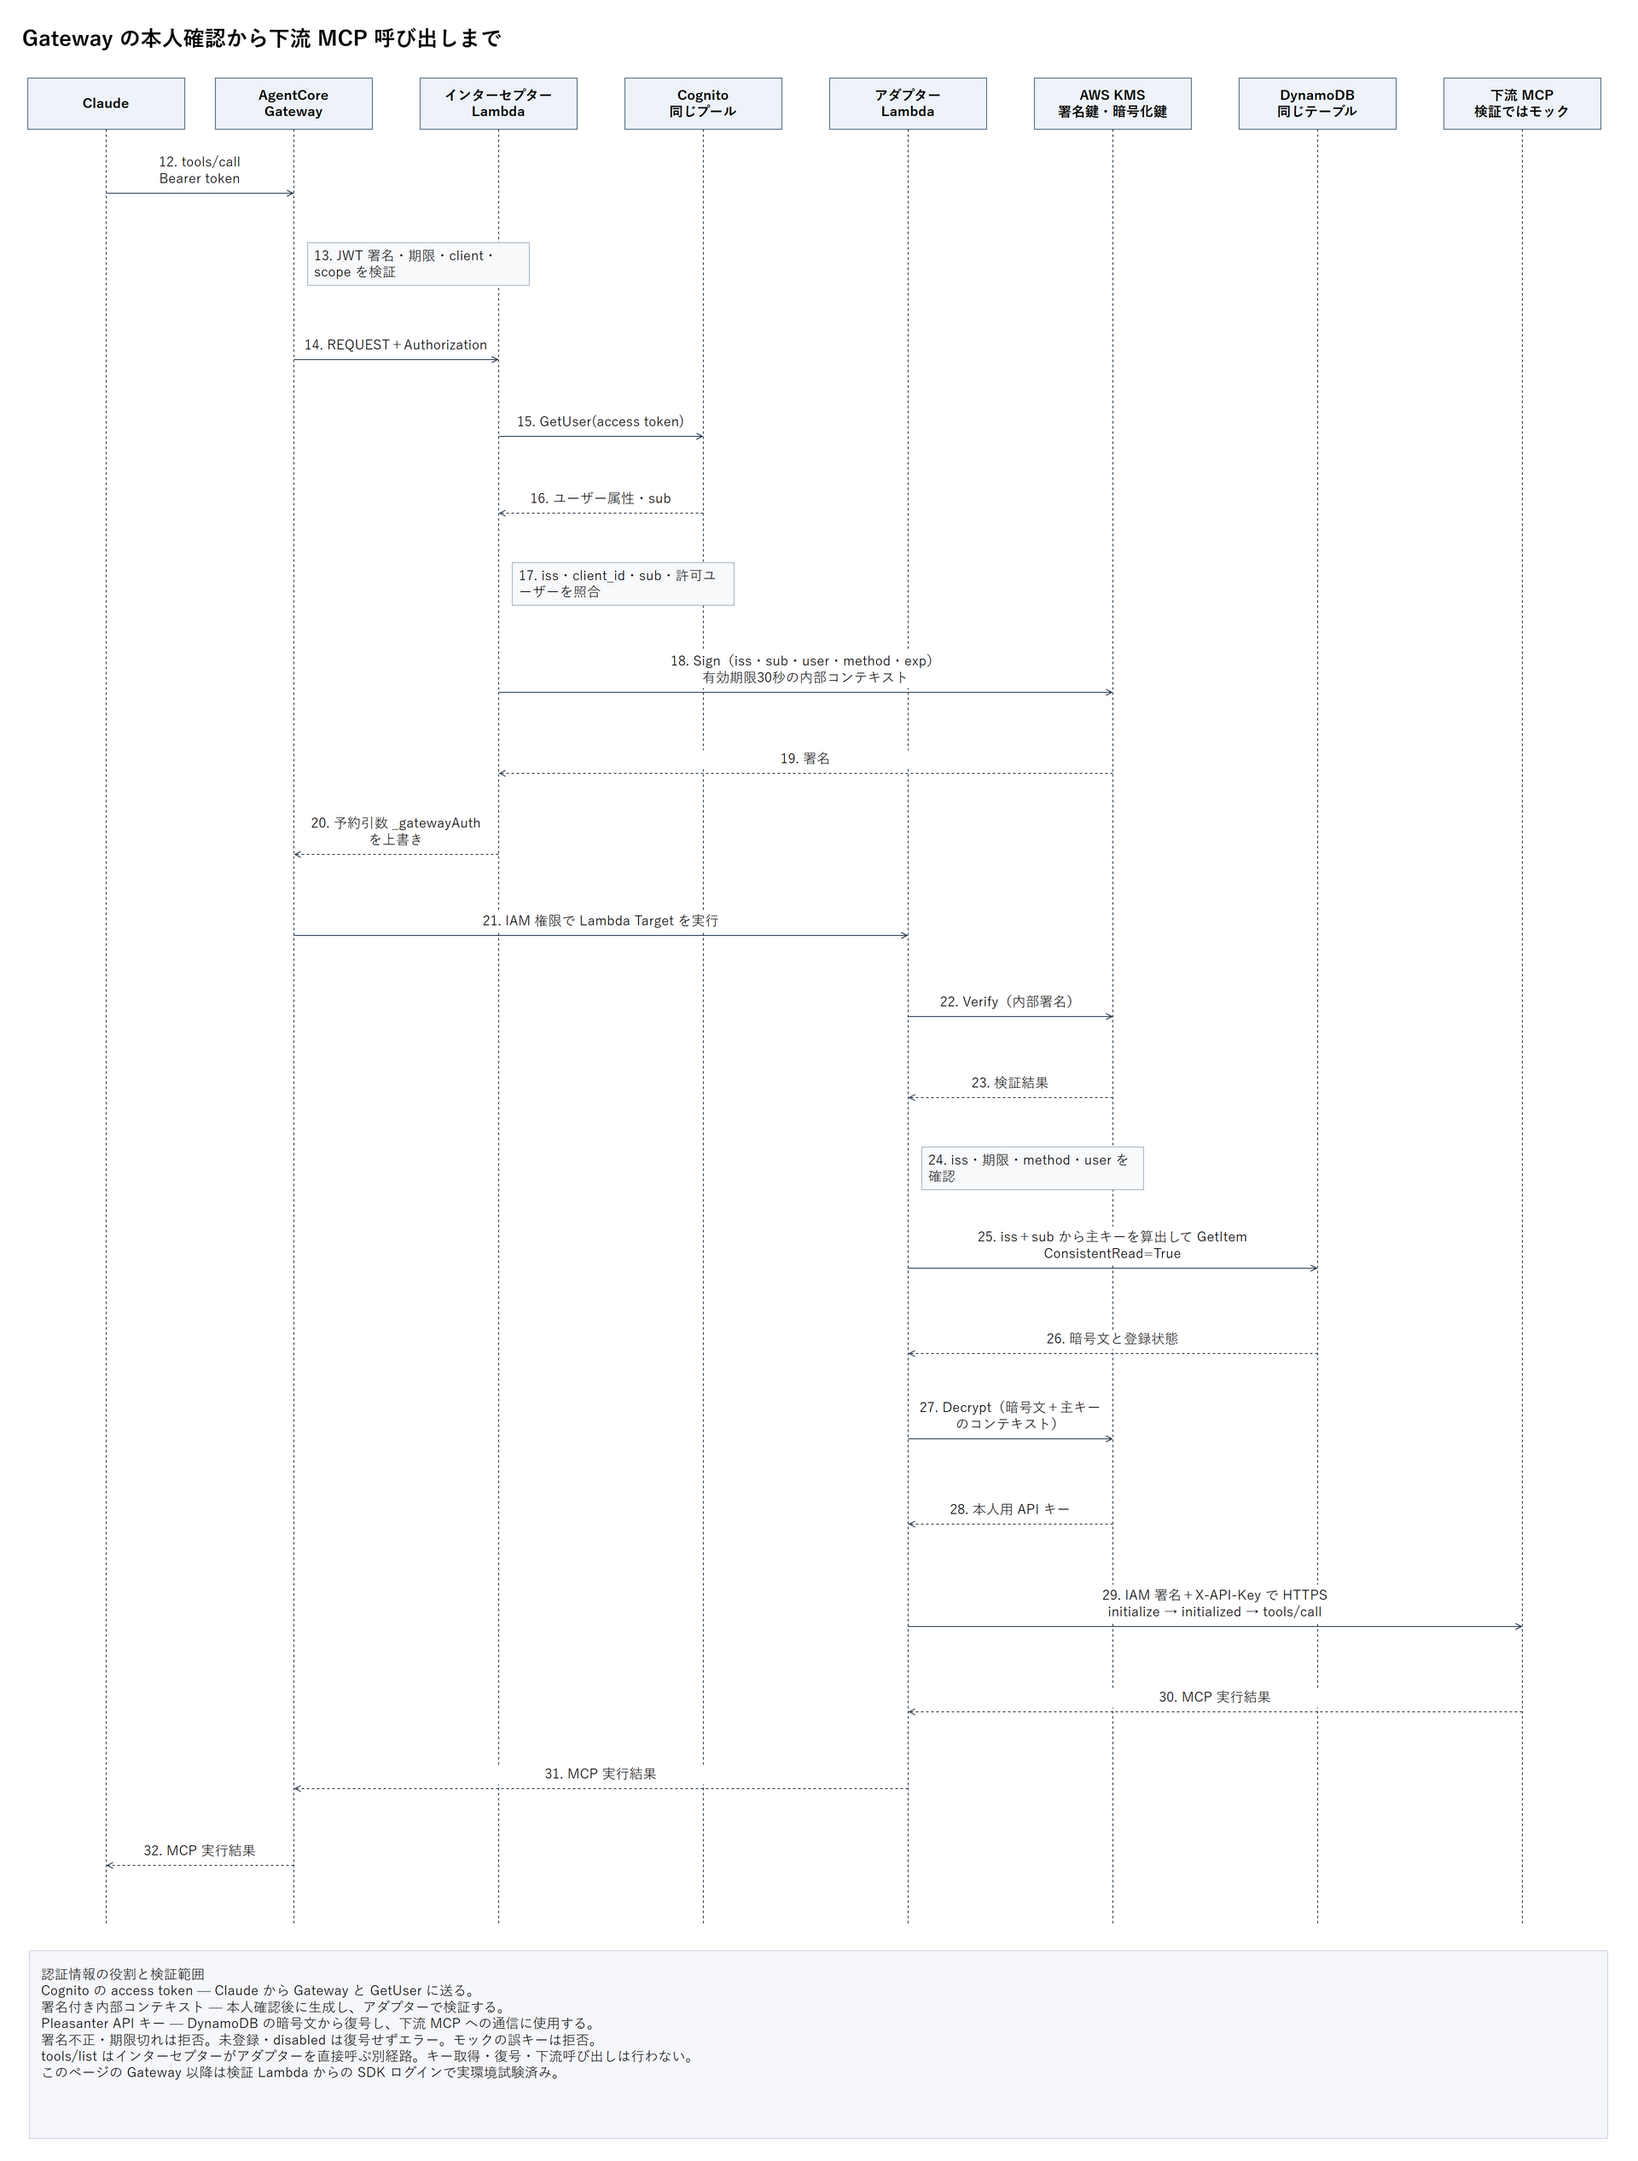
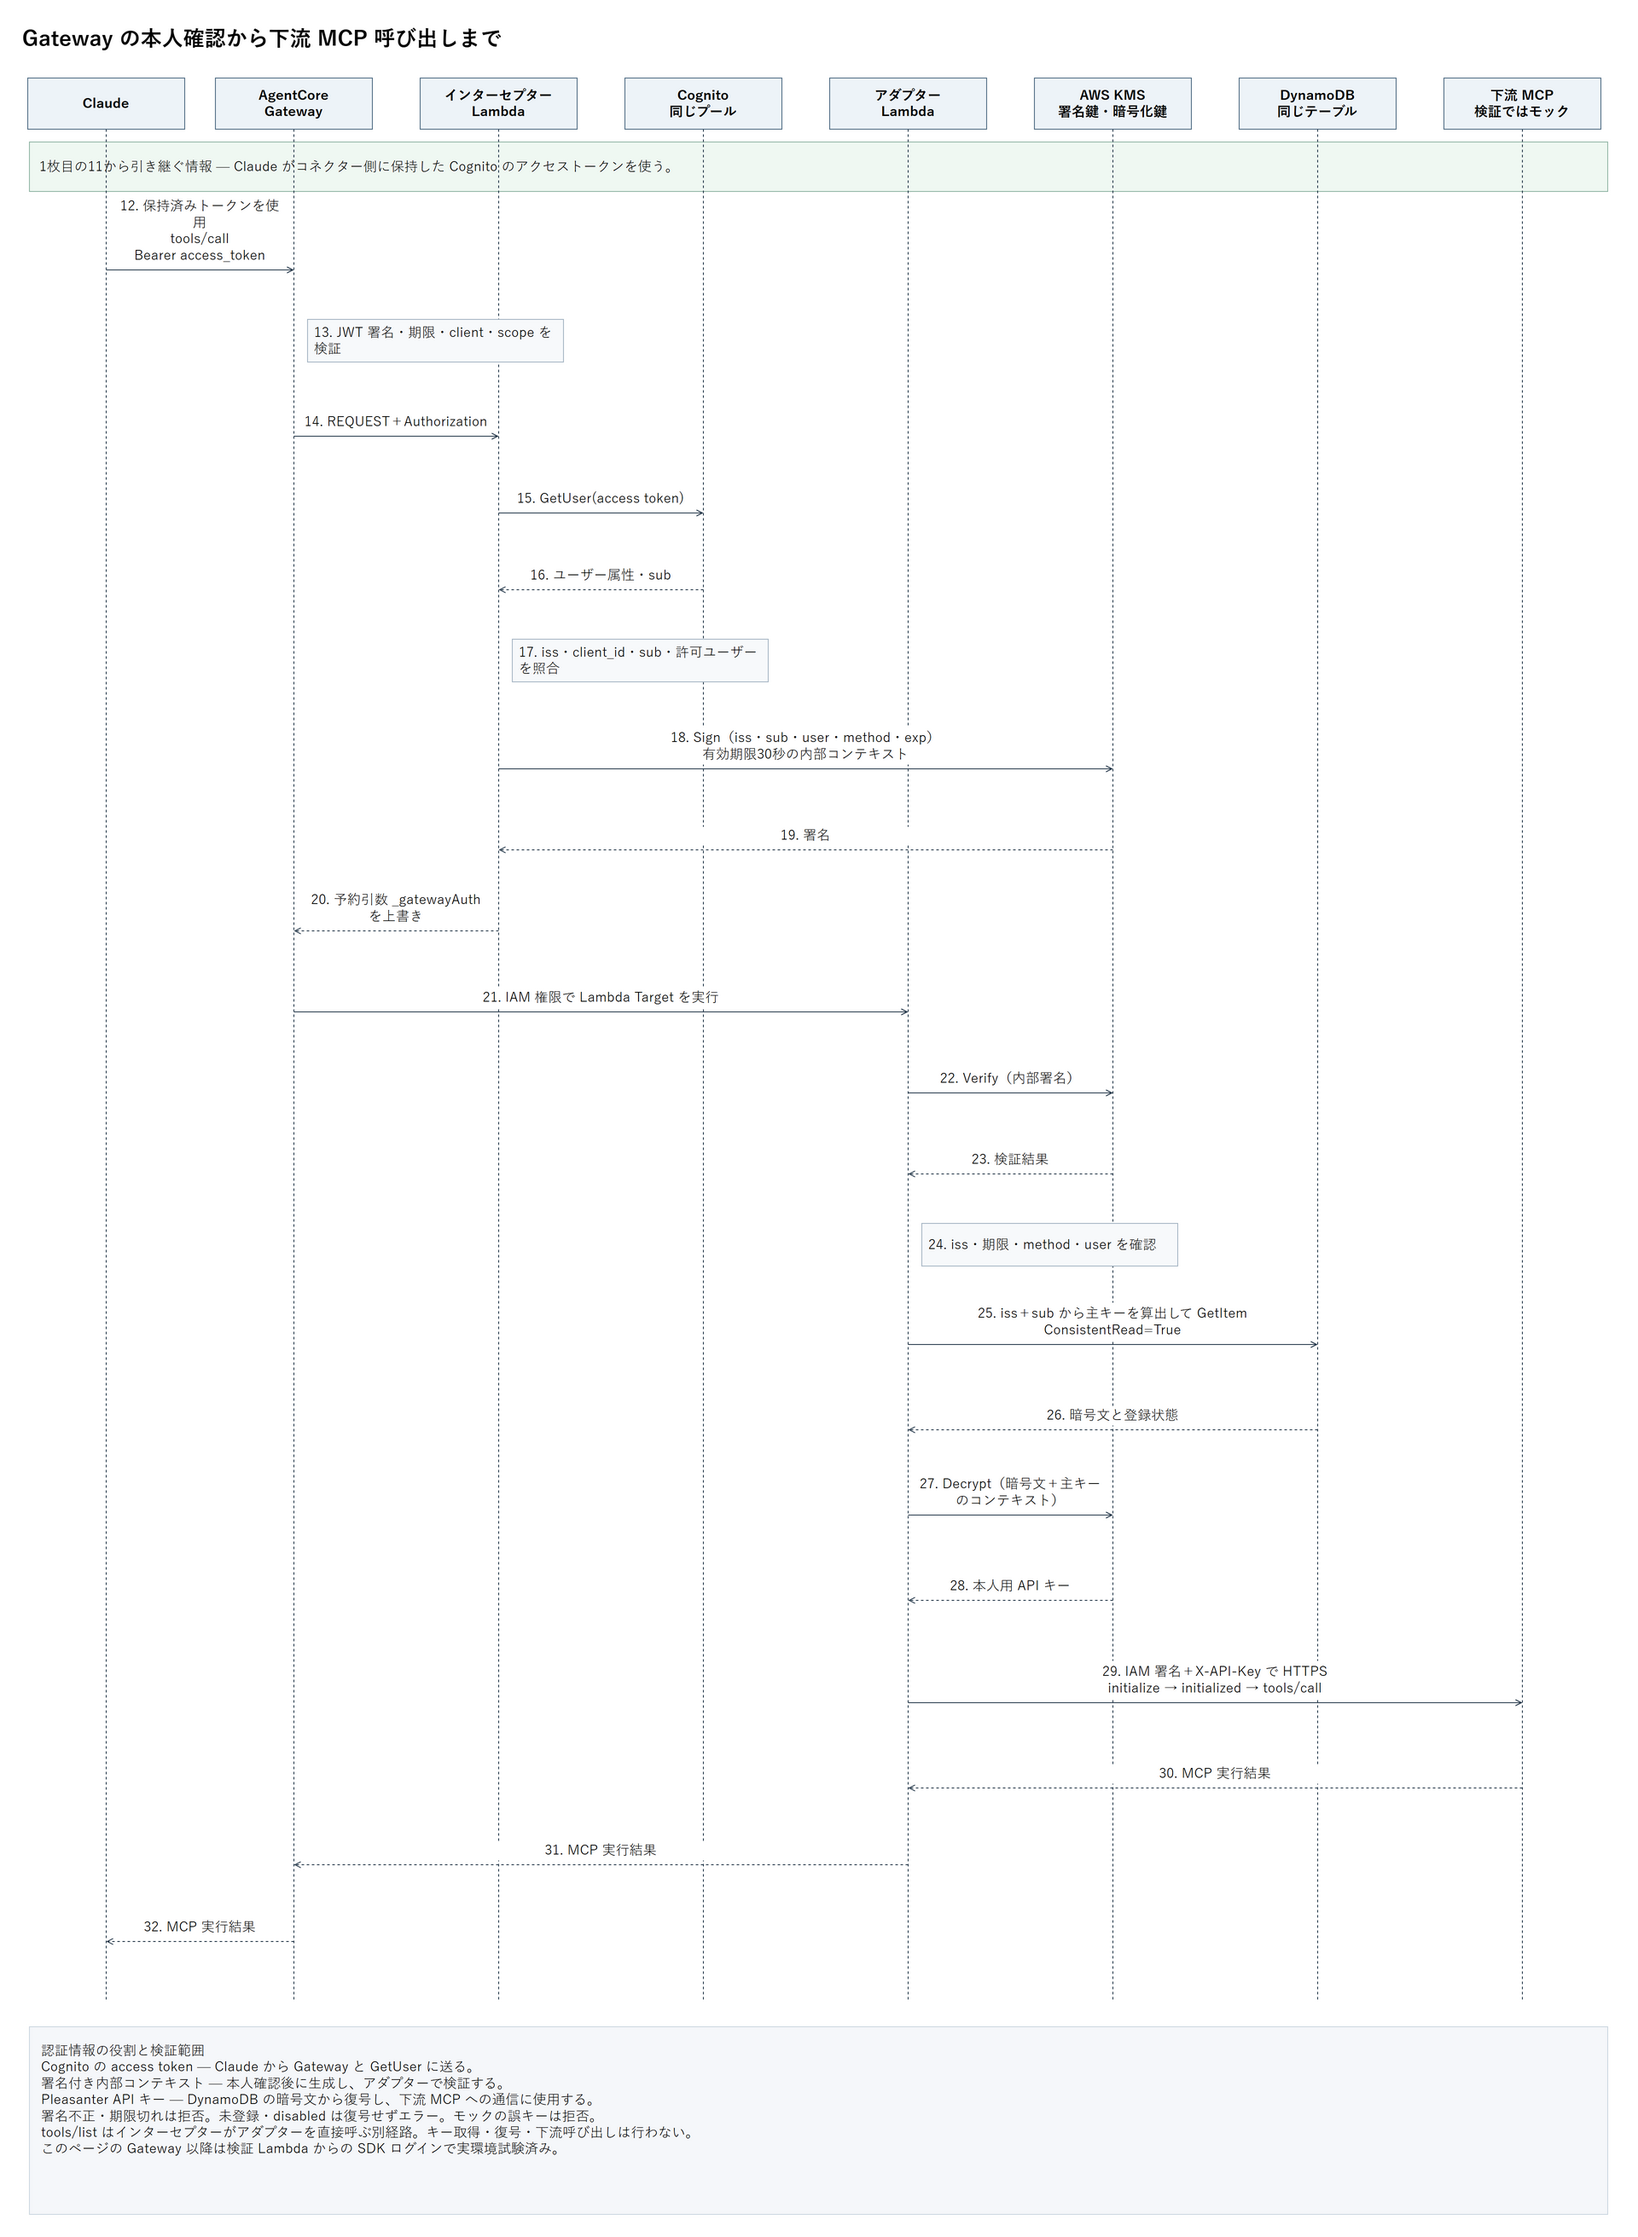
Explain access token handoff between sequence pages

diff --git a/docs/images/build_auth_sequence.py b/docs/images/build_auth_sequence.py
@@ -19,11 +19,16 @@ def line(root, id, x1,y1,x2,y2, dashed=False, arrow=True):
     ET.SubElement(g,"mxPoint",x=str(x2),y=str(y2),**{"as":"targetPoint"})
 
 def page(file, name, title, actors, messages, notes, width, height, start_number=1):
+    if name == "runtime":
+        messages = [(a, b, y + 90, text, response) for a, b, y, text, response in messages]
     diagram=ET.SubElement(file,"diagram",name=name,id=name)
     model=ET.SubElement(diagram,"mxGraphModel",dx="1400",dy="900",grid="1",gridSize="10",page="1",pageScale="1",
         pageWidth=str(width),pageHeight=str(height), math="0",shadow="0")
     root=ET.SubElement(model,"root"); ET.SubElement(root,"mxCell",id="0"); ET.SubElement(root,"mxCell",id="1",parent="0")
     cell(root,"title",title,30,18,width-60,42,"strokeColor=none;fillColor=none;align=left;fontStyle=1;fontSize=25;")
+    if name == "runtime":
+        cell(root, "handoff", "1枚目の11から引き継ぐ情報 — Claude がコネクター側に保持した Cognito のアクセストークンを使う。",
+             40, 160, width - 80, 58, "strokeColor=#91B5A5;fillColor=#EFF8F2;align=left;spacing=12;")
     bottom=max(m[2] for m in messages)+70
     for i,(x,label) in enumerate(actors):
         cell(root,f"actor{i}",label,x-92,85,184,60,"rounded=0;strokeColor=#4C6981;fillColor=#EDF3F8;fontStyle=1;align=center;")
@@ -32,7 +37,7 @@ def page(file, name, title, actors, messages, notes, width, height, start_number
         text = f"{start_number + i}. {text.removeprefix('① ').removeprefix('② ')}"
         xa,xb=actors[a][0],actors[b][0]
         if a==b:
-            cell(root,f"self{i}",text,xa+16,y-22,260,50,"rounded=0;strokeColor=#A5B5C3;fillColor=#F7F9FB;align=left;spacing=8;")
+            cell(root,f"self{i}",text,xa+16,y-22,300,max(50, (text.count('\n') + 1) * 23 + 20),"rounded=0;strokeColor=#A5B5C3;fillColor=#F7F9FB;align=left;spacing=8;")
         else:
             line(root,f"msg{i}",xa,y,xb,y,response)
             rows=text.count("\n")+1
@@ -58,7 +63,7 @@ page(doc,"login","Claude から Gateway を利用する認証シーケンス",
 (1,1,865,"state を照合し、開始時の処理に紐付ける",False),
 (1,3,1010,"POST /oauth2/token\ncode・client_id・redirect_uri・code_verifier\ngrant_type=authorization_code",False),
 (3,1,1120,"アクセストークン等\nCognito が認証成功後に発行",True),
-(1,4,1230,"MCP tools/call\nAuthorization: Bearer <access_token>",False)
+(1,1,1230,"アクセストークンを Claude 側に保持\n今後 Gateway 呼び出しに使用する\n次ページ12へ続く",False)
 ],
 [
 ("②で使う情報の取得元",
@@ -80,7 +85,7 @@ page(doc,"login","Claude から Gateway を利用する認証シーケンス",
 page(doc,"runtime","Gateway の本人確認から下流 MCP 呼び出しまで",
 [(130,"Claude"),(350,"AgentCore\nGateway"),(590,"インターセプター\nLambda"),(830,"Cognito\n同じプール"),(1070,"アダプター\nLambda"),(1310,"AWS KMS\n署名鍵・暗号化鍵"),(1550,"DynamoDB\n同じテーブル"),(1790,"下流 MCP\n検証ではモック")],
 [
-(0,1,220,"tools/call\nBearer token",False),
+(0,1,220,"保持済みトークンを使用\ntools/call\nBearer access_token",False),
 (1,1,300,"JWT 署名・期限・client・scope を検証",False),
 (1,2,415,"REQUEST＋Authorization",False),
 (2,3,505,"GetUser(access token)",False),
